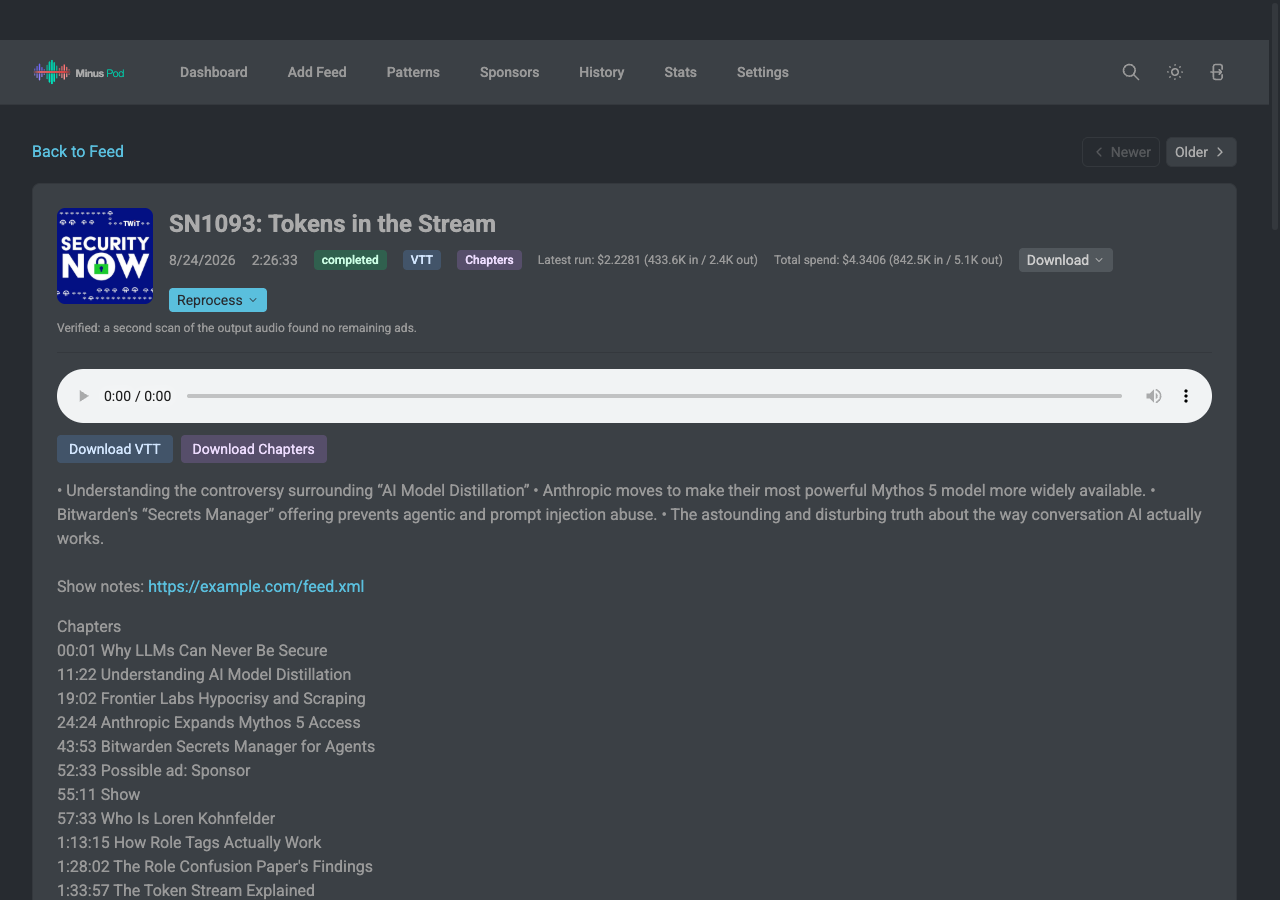
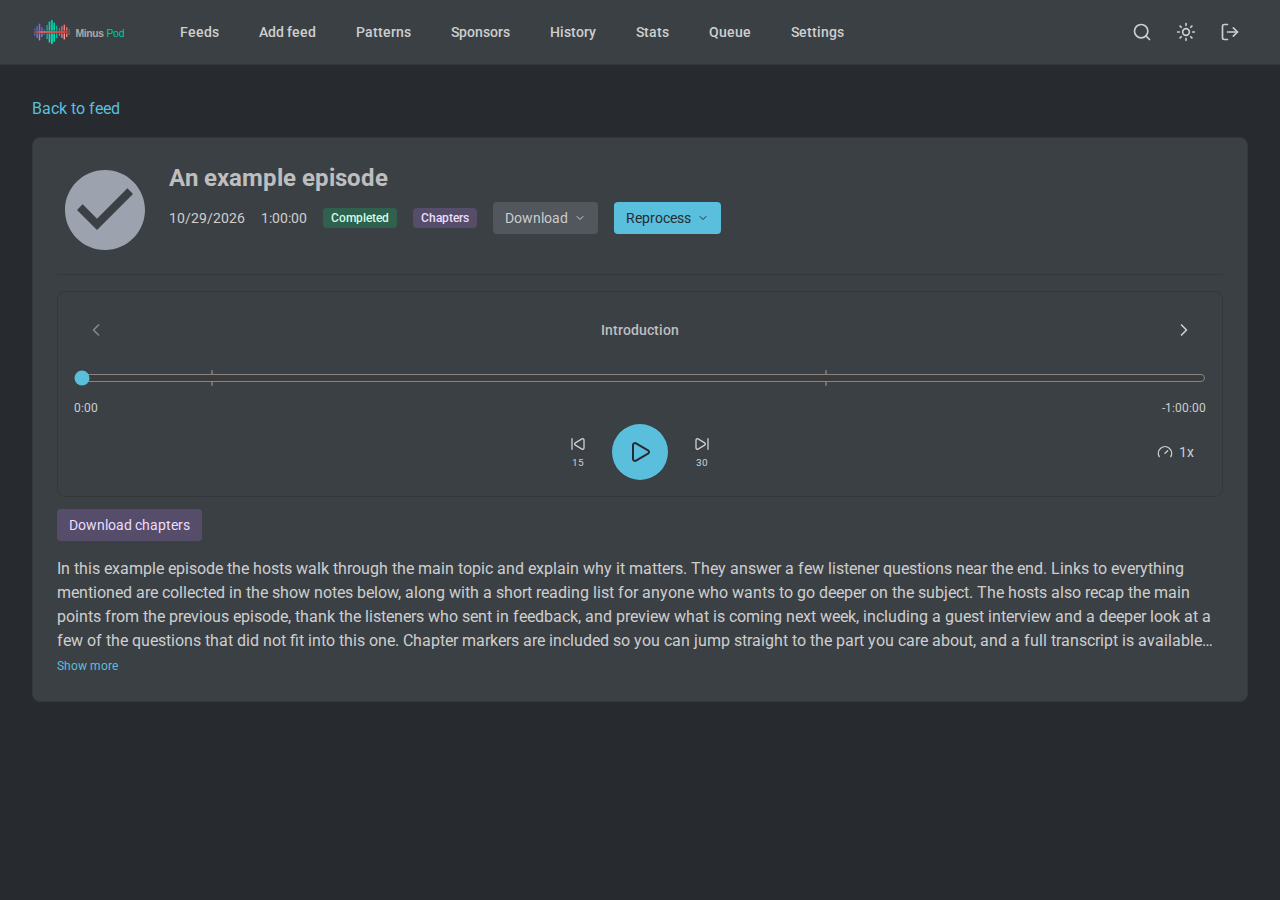
Document the YouTube pipeline and refresh the episode page screenshots

diff --git a/frontend/e2e/docs-screenshots.spec.ts b/frontend/e2e/docs-screenshots.spec.ts
@@ -1,0 +1,123 @@
+import { test, expect, type Page, type Route } from '@playwright/test';
+import { readFileSync } from 'node:fs';
+import path from 'node:path';
+
+test.skip(!process.env.MINUSPOD_DOC_SHOTS, 'doc screenshots run on demand');
+
+const OUT = path.resolve('..', 'docs', 'screenshots');
+const SLUG = 'example-podcast';
+const EPISODE_ID = 'a1b2c3d4e5f6';
+const DURATION_S = 3600;
+const now = Date.now();
+const iso = (offsetMs: number) => new Date(now + offsetMs).toISOString();
+
+// Fills every required Settings key from its declared type so the real page renders.
+function settingsFixture(): Record<string, unknown> {
+  const src = readFileSync(path.resolve('src/api/types.ts'), 'utf8');
+  const body = src.slice(src.indexOf('export interface Settings {')).split('\n}\n')[0];
+  const fill: Record<string, unknown> = {
+    SettingValue: { value: '', isDefault: true },
+    SettingValueNumber: { value: 1, isDefault: true },
+    SettingValueBoolean: { value: false, isDefault: true },
+    SettingValueNumberOrNull: { value: null, isDefault: true },
+    boolean: false, string: '', number: 1, 'string | null': null,
+    WhisperBackend: 'local', LlmProvider: 'anthropic',
+  };
+  const out: Record<string, unknown> = {};
+  for (const m of body.matchAll(/^ {2}(\w+): (.+?);/gm)) if (m[2] in fill) out[m[1]] = fill[m[2]];
+  Object.assign(out, {
+    segmentCategoryActions: { value: {}, isDefault: true },
+    jitBlockedUserAgents: { value: [], isDefault: true },
+    modelPricingOverrides: { value: {}, isDefault: true },
+    defaults: {},
+  });
+  return out;
+}
+const settings = settingsFixture();
+
+const feed = {
+  slug: SLUG, title: 'Example Podcast', sourceUrl: 'https://example.com/rss', feedUrl: `https://example.com/feeds/${SLUG}`,
+  feedType: 'subscribed', episodeCount: 1, processedCount: 1, lastRefreshed: iso(-3_600_000), createdAt: iso(-86_400_000 * 9),
+};
+const description = '<p>In this example episode the hosts walk through the main topic and explain why it matters. They answer a few listener questions near the end. Links to everything mentioned are collected in the show notes below, along with a short reading list for anyone who wants to go deeper on the subject. The hosts also recap the main points from the previous episode, thank the listeners who sent in feedback, and preview what is coming next week, including a guest interview and a deeper look at a few of the questions that did not fit into this one. Chapter markers are included so you can jump straight to the part you care about, and a full transcript is available for anyone who prefers to read along while they listen. Thanks for listening, and see you next time.</p>';
+const episode = {
+  id: EPISODE_ID, title: 'An example episode', published: iso(-86_400_000), status: 'completed',
+  ad_count: 0, processedAt: iso(-80_000_000), description,
+  duration: DURATION_S, originalDuration: DURATION_S, newDuration: DURATION_S, timeSaved: 0,
+  adMarkers: [], rejectedAdMarkers: [], pendingReviewMarkers: [], keptMarkers: [], corrections: [],
+  processedUrl: `/episodes/${SLUG}/${EPISODE_ID}.mp3`,
+  chaptersAvailable: true, chaptersUrl: `/episodes/${SLUG}/${EPISODE_ID}/chapters.json`,
+  transcriptAvailable: false,
+};
+const chapters = {
+  version: '1.2.0',
+  chapters: [
+    { startTime: 0, title: 'Introduction' },
+    { startTime: 420, title: 'Main topic' },
+    { startTime: 2400, title: 'Listener questions' },
+  ],
+};
+
+// Silent mono 8 kHz 8-bit WAV so the audio element reports a real duration.
+function silentWav(seconds: number): Buffer {
+  const rate = 8000;
+  const data = Buffer.alloc(seconds * rate, 128);
+  const h = Buffer.alloc(44);
+  h.write('RIFF', 0); h.writeUInt32LE(36 + data.length, 4); h.write('WAVEfmt ', 8);
+  h.writeUInt32LE(16, 16); h.writeUInt16LE(1, 20); h.writeUInt16LE(1, 22);
+  h.writeUInt32LE(rate, 24); h.writeUInt32LE(rate, 28); h.writeUInt16LE(1, 32); h.writeUInt16LE(8, 34);
+  h.write('data', 36); h.writeUInt32LE(data.length, 40);
+  return Buffer.concat([h, data]);
+}
+const wav = silentWav(DURATION_S);
+
+async function mockApi(page: Page) {
+  await page.route(`**/episodes/${SLUG}/${EPISODE_ID}.mp3`, (route) => {
+    const m = /bytes=(\d+)-(\d*)/.exec(route.request().headers().range ?? '');
+    if (!m) return route.fulfill({ contentType: 'audio/wav', headers: { 'accept-ranges': 'bytes' }, body: wav });
+    const start = Number(m[1]);
+    const end = m[2] ? Number(m[2]) : wav.length - 1;
+    return route.fulfill({
+      status: 206,
+      contentType: 'audio/wav',
+      headers: { 'accept-ranges': 'bytes', 'content-range': `bytes ${start}-${end}/${wav.length}` },
+      body: wav.subarray(start, end + 1),
+    });
+  });
+  await page.route('**/chapters.json', (route) => route.fulfill({ contentType: 'application/json', body: JSON.stringify(chapters) }));
+  await page.route('**/api/v1/**', async (route: Route) => {
+    const p = new URL(route.request().url()).pathname.replace(/^.*\/api\/v1/, '');
+    let body: unknown;
+    if (p === '/auth/status') body = { passwordSet: true, authenticated: true };
+    else if (p === '/settings') body = settings;
+    else if (p === '/feeds') body = { feeds: [feed], lastRefreshCompletedAt: null };
+    else if (p === `/feeds/${SLUG}`) body = feed;
+    else if (p === `/feeds/${SLUG}/episodes`) body = { episodes: [episode], total: 1, limit: 50, offset: 0 };
+    else if (p === `/feeds/${SLUG}/episodes/${EPISODE_ID}`) body = episode;
+    if (body === undefined) return route.fulfill({ status: 404, contentType: 'application/json', body: '{"error":"not mocked"}' });
+    await route.fulfill({ status: 200, contentType: 'application/json', body: JSON.stringify(body) });
+  });
+}
+
+const SHOTS = [
+  { name: 'desktop', width: 1280, height: 900, mobile: false },
+  { name: 'mobile', width: 390, height: 844, mobile: true },
+];
+
+for (const s of SHOTS) {
+  test.describe(`doc screenshot ${s.name}`, () => {
+    test.use({ viewport: { width: s.width, height: s.height }, hasTouch: s.mobile, isMobile: s.mobile, colorScheme: 'dark' });
+
+    test('episode detail', async ({ page }) => {
+      await page.addInitScript(() => localStorage.setItem('theme', 'dark'));
+      await mockApi(page);
+      await page.goto(`feeds/${SLUG}/episodes/${EPISODE_ID}`);
+      const player = page.getByRole('group', { name: 'Episode player' });
+      await expect(player).toBeVisible({ timeout: 15_000 });
+      await expect(player.getByText('Introduction')).toBeVisible();
+      await expect(page.getByRole('button', { name: 'Show more' })).toBeVisible();
+      await page.waitForTimeout(400);
+      await page.screenshot({ path: path.join(OUT, `episode-detail-${s.name}.png`), fullPage: false });
+    });
+  });
+}

diff --git a/docs/workflows.md b/docs/workflows.md
@@ -13,6 +13,7 @@ behind each stage, see [How It Works](how-it-works.md).
 - [How work arrives](#how-work-arrives)
 - [The Whisper pool](#the-whisper-pool)
 - [The standard pipeline](#the-standard-pipeline)
+- [The YouTube pipeline](#the-youtube-pipeline)
 - [Five kinds of evidence, five outcomes](#five-kinds-of-evidence-five-outcomes)
 - [Processing modes](#processing-modes)
 - [Re-running an episode](#re-running-an-episode)
@@ -86,6 +87,21 @@ Long episodes transcribe in chunks sized to fit GPU memory. Cutting and
 normalizing a chunk is its own ffmpeg pass, and that pass runs ahead of the
 GPU: while one chunk transcribes, the next ones are already being prepared.
 The verify pass re-transcribes the cut file the same way.
+
+---
+
+## The YouTube pipeline
+
+A YouTube feed has no upstream RSS, so MinusPod builds the episode list itself and waits for community SponsorBlock marks before it cuts. Detail for every step is in [YouTube Feeds](youtube-feeds.md).
+
+- **Discovery.** On the normal feed refresh schedule MinusPod lists the playlist, channel or single video. It uses the YouTube Data API when a key is set and yt-dlp otherwise. Private and deleted entries are hidden.
+- **Serving.** The served feed lists every discovered episode with its upload date. Nothing is processed at discovery: the first play of an unprocessed episode starts processing, and the app retries until the cut is ready.
+- **SponsorBlock gate.** An episode waits the processing delay, then MinusPod probes SponsorBlock a set number of times at a fixed interval. The first probe that finds marks queues the episode. If none appear after the last probe, the LLM pipeline runs as a fallback, or, with the fallback off, the episode enters a watch window and is checked at the watch interval until the watch ceiling.
+- **Cutting.** Marks are cut as given, with no LLM call by default. Learned patterns (audio fingerprints and text patterns) always run, and MinusPod learns new patterns from the marks it cuts. Pass 1 detection, a per-feed switch, adds the LLM on top and cuts both sets of segments. If the marks change during the watch window, the episode is recut from the retained original.
+- **Transcript.** When captions exist and the captions setting is on, they become the transcript and Whisper is skipped. Creator chapters are reused, so the chapter generation call is skipped too.
+- **Metadata backfill.** A background pass fills missing descriptions and exact publish times from each video's metadata, for up to 10 episodes per refresh pass, without downloading.
+
+Global settings live in Settings > YouTube; the delay, probe, fallback, captions and Shorts settings can be overridden per feed, while the watch interval and ceiling are global only. See [Configuration](configuration.md#youtube) for the full table.
 
 ---
 
